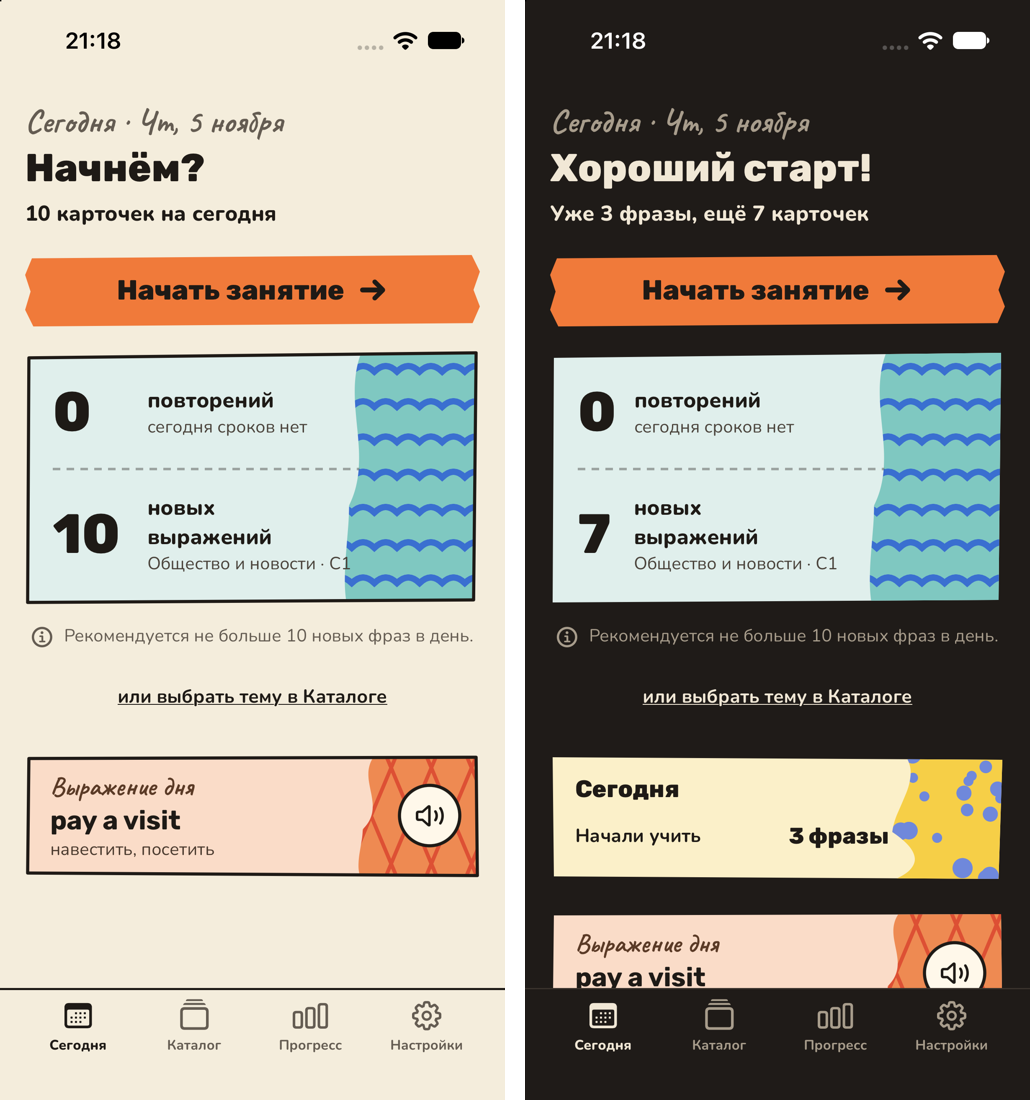
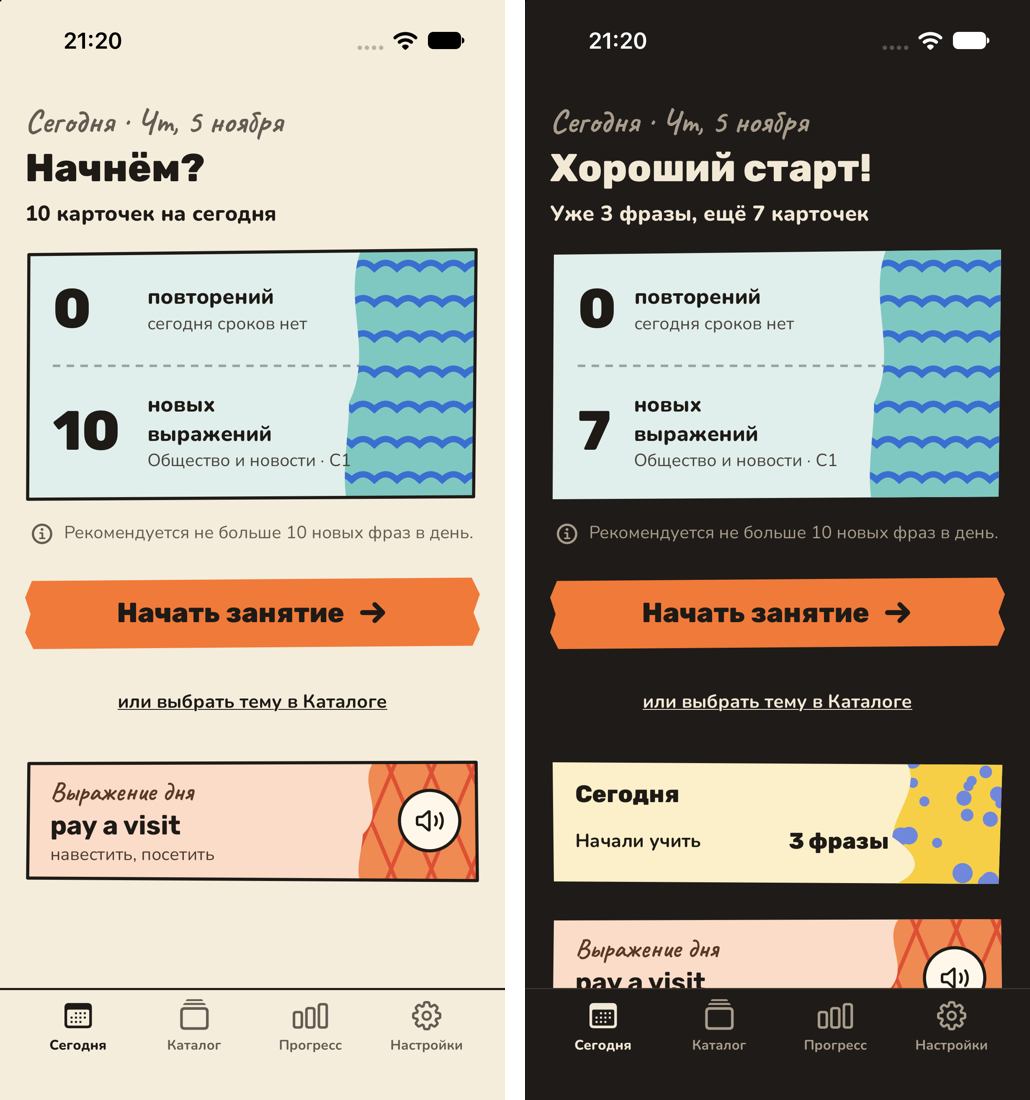
Today: start button back under the plan card, keep orange look (prototype)

diff --git a/App/Views/Tabs/TodayView.swift b/App/Views/Tabs/TodayView.swift
@@ -40,10 +40,6 @@ struct TodayView: View {
                         continueCard(topic)
                     }
                 } else {
-                    StartButton(title: model.session == nil ? "Начать занятие" : "Начать заново") {
-                        if model.session != nil { model.closeSession() }
-                        model.startToday()
-                    }
                     planCard(plan)
                     Button { showWhy.toggle() } label: {
                         HStack(alignment: .top, spacing: 8) {
@@ -56,6 +52,12 @@ struct TodayView: View {
                     }
                     .buttonStyle(.plain)
                     .padding(.horizontal, 4)
+
+                    StartButton(title: model.session == nil ? "Начать занятие" : "Начать заново") {
+                        if model.session != nil { model.closeSession() }
+                        model.startToday()
+                    }
+                    .padding(.top, 4)
                 }
 
                 LinkButton(title: "или выбрать тему в Каталоге", action: openCatalog)
